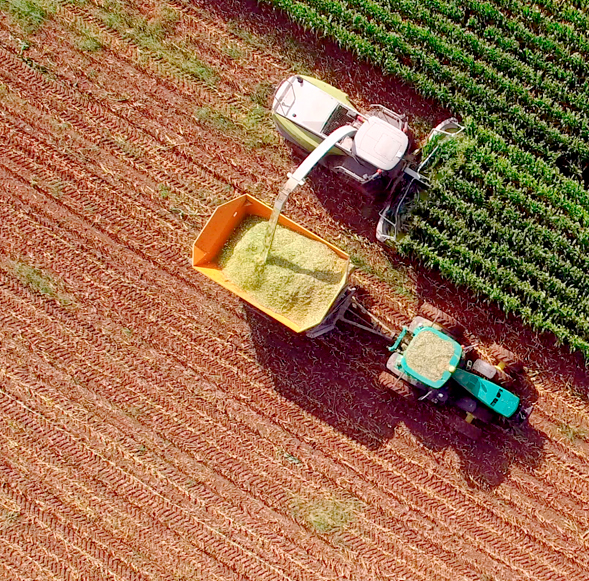
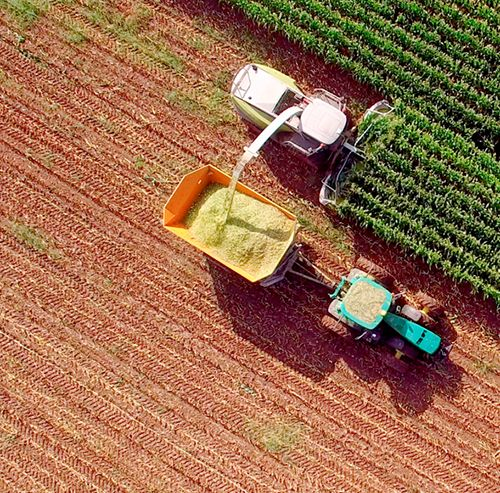
Compressed and resized all content images including team, expertise, and research images.

diff --git a/gatsby-config.js b/gatsby-config.js
@@ -6,6 +6,8 @@ module.exports = {
     disqus: 'gatsby-starter-blog'// put your disqus ID here
   },
   plugins: [
+    'gatsby-transformer-sharp',
+    'gatsby-plugin-sharp',
     {
       resolve: 'gatsby-source-filesystem',
       options: {
@@ -32,12 +34,9 @@ module.exports = {
           },
           'gatsby-remark-prismjs',
           'gatsby-remark-copy-linked-files'
-          
         ]
       }
     },
-    'gatsby-transformer-sharp',
-    'gatsby-plugin-sharp',
     'gatsby-plugin-offline',
     'gatsby-plugin-netlify',
     'gatsby-plugin-react-helmet',

diff --git a/src/styles/index.scss b/src/styles/index.scss
@@ -60,10 +60,6 @@
 
 @import "./global/global.scss";
 
-// RESPONSIVE //
-
-@import "./global/responsive.scss";
-
 // LAYOUT //
 
 @import "./layout/header.scss";
@@ -73,3 +69,7 @@
 @import "./layout/research.scss";
 @import "./layout/team.scss";
 @import "./layout/contact.scss";
+
+// RESPONSIVE //
+
+@import "./global/responsive.scss";

diff --git a/src/components/parallax/clouds.js b/src/components/parallax/clouds.js
@@ -19,7 +19,6 @@ export default class Cloud extends Component {
 	componentDidMount() {
 		setTimeout(function() { //Start the timer
 			this.context.parallaxController.update();
-			console.log('UPDATE!!')
   	}.bind(this), 3000)
 	}
 	render() {

diff --git a/src/pages/expertise/expertise.md b/src/pages/expertise/expertise.md
@@ -28,7 +28,7 @@ expertises:
     header: >-
       Subject area expertise and our trusted distribution team create
       opportunities to excel in developing and marketing transactions.
-    photo: /files/investment banking hero.png
+    photo: /files/investment-banking-hero.jpg
     title: Investment Banking
   - copy: >-
       Treating our clients as partners starts with effective sales coverage. Our
@@ -38,7 +38,7 @@ expertises:
       research and differentiated investment perspectives with effective trade
       execution and diligent sales coverage.
     header: Serving clients well is our priority.
-    photo: /files/sales and trading hero.png
+    photo: /files/sales-and-trading-hero.jpg
     title: Sales + Trading
   - copy: >-
       We inform and advise a range of organizations on investment, regulatory,
@@ -49,7 +49,7 @@ expertises:
       analysis on the key events and policy debates that impact specific sectors
       and the broader economic picture.
     header: Where identified investment themes and timely ideas converge.
-    photo: /files/advisory services hero.png
+    photo: /files/advisory-services-hero.jpg
     title: Advisory Services
 ---
 

diff --git a/src/pages/team_member/stefanie-miller.md b/src/pages/team_member/stefanie-miller.md
@@ -3,7 +3,7 @@ contentType: team_member
 path: /team/stefanie-miller
 title: Stefanie Miller
 job_title: 'Senior Vice President, Special Situations'
-portrait: /files/stefanie miller_research.png
+portrait: /files/stefanie-miller_research.jpg
 linkedin: 'https://www.linkedin.com/in/stefanie-miller-22806a67/'
 intro: Stefanie Miller is Senior Vice President of Height's Special Situations team.
 details: >-

diff --git a/src/pages/team_member/edwin-groshans.md b/src/pages/team_member/edwin-groshans.md
@@ -3,7 +3,7 @@ contentType: team_member
 path: /team/edwin-groshans
 title: Edwin Groshans
 job_title: 'Senior Vice President & Director, Financial Services'
-portrait: /files/ed groshans_research.png
+portrait: /files/ed-groshans_research.jpg
 linkedin: 'https://www.linkedin.com/in/ed-groshans-31212b1/'
 intro: >-
   Edwin Groshans is a Senior Vice President at Height focusing on the financial

diff --git a/src/pages/team_member/sabrina-cassagnol.md b/src/pages/team_member/sabrina-cassagnol.md
@@ -3,7 +3,7 @@ contentType: team_member
 path: /team/sabrina-cassagnol
 title: Sabrina Cassagnol
 job_title: Chief Compliance Officer
-portrait: /files/sabrina cassagnol_compliance.png
+portrait: /files/sabrina-cassagnol_compliance.jpg
 linkedin: 'https://www.linkedin.com/in/sabrina-cassagnol-443a1720/'
 intro: Sabrina Cassagnol serves as Chief Compliance Officer for the Firm.
 details: >-

diff --git a/src/pages/team_member/trevor-hanger.md b/src/pages/team_member/trevor-hanger.md
@@ -3,7 +3,7 @@ contentType: team_member
 path: /team/trevor-hanger
 title: Trevor Hanger
 job_title: President & Chief Operating Officer
-portrait: /files/trevor hanger_leadership.png
+portrait: /files/trevor-hanger_leadership.jpg
 linkedin: 'https://www.linkedin.com/in/trevorhanger/'
 intro: >-
   As Height’s President & COO, Trevor Hanger oversees daily operations across

diff --git a/src/pages/team_member/clayton-allen.md b/src/pages/team_member/clayton-allen.md
@@ -3,7 +3,7 @@ contentType: team_member
 path: /team/clayton-allen
 title: Clayton Allen
 job_title: 'Vice President, Special Situations'
-portrait: /files/clayton allen_research.png
+portrait: /files/clayton-allen_research.jpg
 linkedin: 'https://www.linkedin.com/in/claytonlallen/'
 intro: >-
   Clayton Allen joined Height in May 2017, bringing experience on energy and

diff --git a/src/pages/team_member/katie-bays.md b/src/pages/team_member/katie-bays.md
@@ -3,7 +3,7 @@ contentType: team_member
 path: /team/katie-bays
 title: Katie Bays
 job_title: 'Senior Vice President, Energy & Industrials'
-portrait: /files/katie bays_research.png
+portrait: /files/katie-bays_research.jpg
 linkedin: 'https://www.linkedin.com/in/katiemarvin/'
 intro: >-
   Katie Bays leads Height's Energy and Industrials team, focusing on the

diff --git a/src/pages/team_member/andrea-harris.md b/src/pages/team_member/andrea-harris.md
@@ -3,7 +3,7 @@ contentType: team_member
 path: /team/andrea-harris
 title: Andrea Harris
 job_title: 'Senior Vice President, Healthcare'
-portrait: /files/andrea harris_research.png
+portrait: /files/andrea-harris_research.jpg
 intro: >-
   Andrea Harris joined the firm In June 2017 as Senior Vice President of the
   Height Capital Markets Healthcare team.

diff --git a/src/pages/team_member/alex-cynamon.md b/src/pages/team_member/alex-cynamon.md
@@ -3,7 +3,7 @@ contentType: team_member
 path: /team/alex-cynamon
 title: Alex Cynamon
 job_title: Director
-portrait: /files/alex cynamon_research.png
+portrait: /files/alex-cynamon_research.jpg
 linkedin: ' https://www.linkedin.com/in/alexcynamon/'
 intro: >-
   Alex Cynamon, Director, is responsible for research as well as Height's
